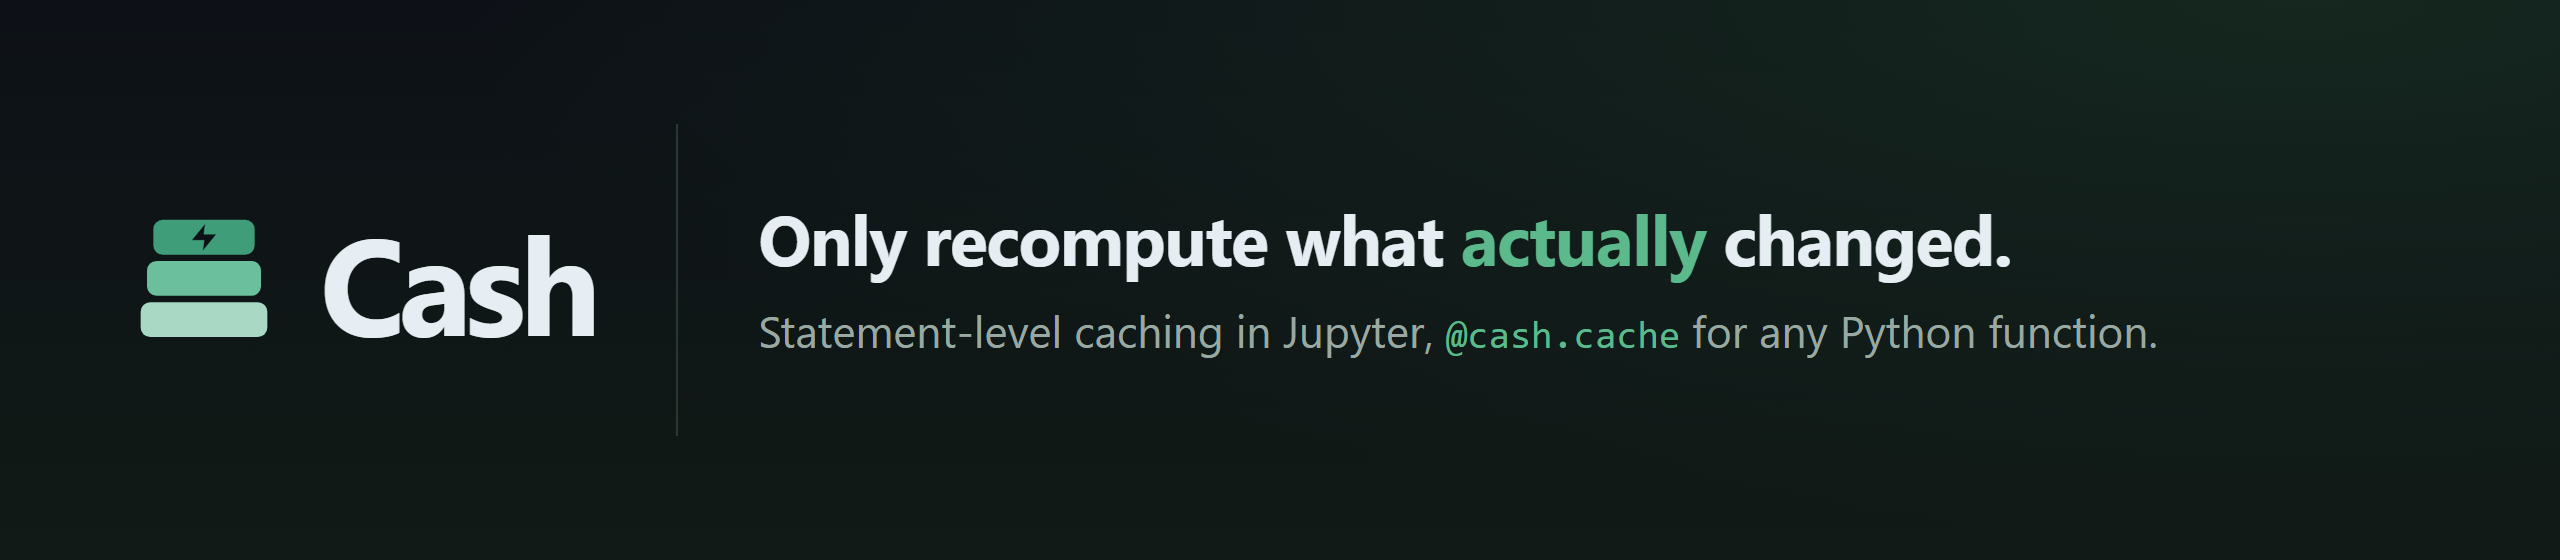
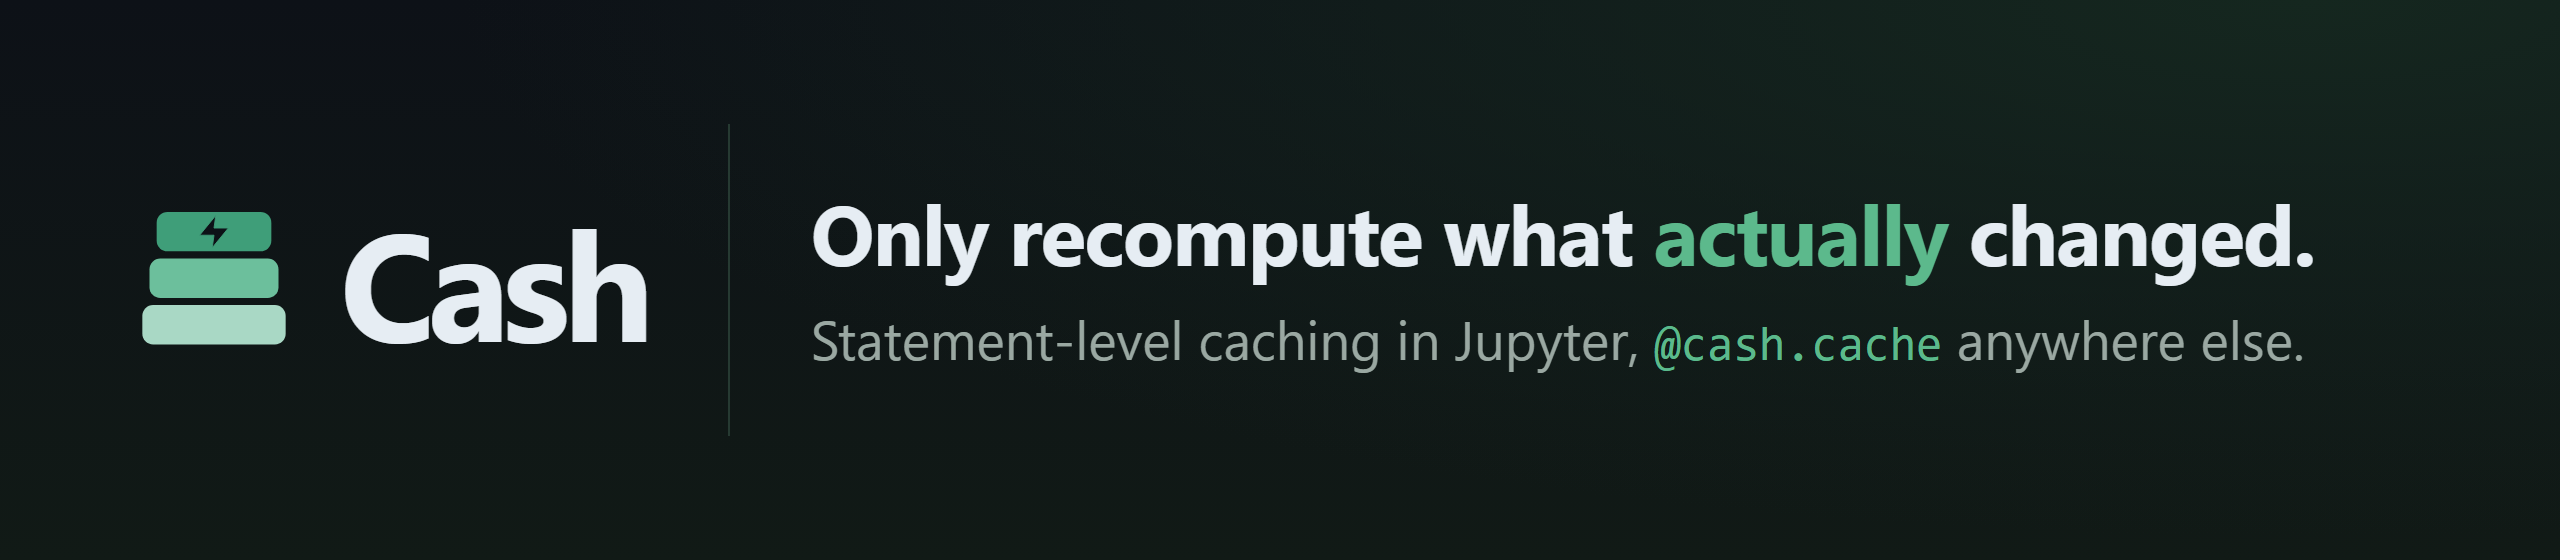
fix(brand): render the social card at the size GitHub actually accepts
The card was 2560x1280 at 822KB -- inside GitHub's stated 1MB cap and the
right 2:1 ratio, but the upload silently would not take. The Settings
preview stayed blank with nothing anywhere reporting a failure, which is
the expensive kind of bug: the file looks correct locally, so the natural
conclusion is that the image is wrong rather than the upload.

Render it at 1x instead, matching the 1280x640 GitHub documents. 257KB.
Scale is now per-asset rather than global -- the README header keeps 2x,
where being oversized is a feature because GitHub displays it well below
its natural width.

A test now pins both the card's dimensions and its file size. A silent
upload failure is worth a guard precisely because nothing reports it.

Also: larger type in the header, which was small once GitHub scales 1280
down to its column. The sub-line is shortened rather than the type shrunk
back, since legibility was the point -- and the H1 under the header is
gone, having said the product's name and claim a second time directly
below an image that already carried both.

Changed region(s): [[0.0625, 0.3643, 0.9062, 0.6679], [0.2812, 0.3643, 0.9062, 0.5161]]

diff --git a/docs/_brand/readme-header.html b/docs/_brand/readme-header.html
@@ -67,7 +67,7 @@
 
   .lockup { display: flex; align-items: center; gap: 20px; flex: none; }
   .lockup .name {
-    font-size: 68px; font-weight: 700; letter-spacing: -0.045em;
+    font-size: 76px; font-weight: 700; letter-spacing: -0.045em;
     color: var(--ink); line-height: 1;
   }
 
@@ -75,18 +75,18 @@
 
   .say { display: flex; flex-direction: column; gap: 10px; }
   .headline {
-    font-size: 35px; line-height: 1.2; font-weight: 700;
+    font-size: 42px; line-height: 1.2; font-weight: 700;
     letter-spacing: -0.02em; color: var(--ink);
   }
   .headline em { font-style: normal; color: var(--accent); }
-  .sub { font-size: 22px; line-height: 1.4; color: var(--ink-3); }
+  .sub { font-size: 27px; line-height: 1.4; color: var(--ink-3); }
   .sub code {
     font-family: var(--mono); font-size: 0.88em; color: var(--accent);
   }
 </style>
 
 <div class="lockup">
-  <svg width="76" height="76" viewBox="0 0 96 96" role="img" aria-label="Cash">
+  <svg width="86" height="86" viewBox="0 0 96 96" role="img" aria-label="Cash">
     <rect x="8" y="62" width="80" height="22" rx="6" fill="var(--bar-low)"/>
     <rect x="12" y="36" width="72" height="22" rx="6" fill="var(--bar-mid)"/>
     <rect x="16" y="10" width="64" height="22" rx="6" fill="var(--bar-top)"/>
@@ -100,5 +100,5 @@
 
 <div class="say">
   <div class="headline">Only recompute what <em>actually</em> changed.</div>
-  <div class="sub">Statement-level caching in Jupyter, <code>@cash.cache</code> for any Python function.</div>
+  <div class="sub">Statement-level caching in Jupyter, <code>@cash.cache</code> anywhere else.</div>
 </div>

diff --git a/scripts/build_brand_assets.py b/scripts/build_brand_assets.py
@@ -43,15 +43,18 @@ import sys
 REPO_ROOT = pathlib.Path(__file__).resolve().parent.parent
 BRAND_DIR = REPO_ROOT / "docs" / "_brand"
 
-# 2x everywhere: crisp where an asset is shown large (Slack unfurls, the
-# Settings preview, a HiDPI README) and downsampling cleanly where it is not.
-SCALE = 2
-
-#: (source stem, output stem, width, height, colour scheme)
+#: (source stem, output stem, width, height, scale, colour scheme)
+#:
+#: Scale is per-asset, not global. The README header renders at 2x so it stays
+#: crisp on a HiDPI screen, where GitHub displays it well below its natural
+#: width. The social card renders at 1x: GitHub documents 1280x640 as the size
+#: for best display and caps the upload at 1MB, and a 2x card came out
+#: 2560x1280 at 822KB -- inside the stated limit, but it would not take. Match
+#: the documented size exactly rather than argue with the uploader.
 ASSETS = [
-    ("social-card",   "social-card",         1280, 640, "light"),
-    ("readme-header", "readme-header-light", 1280, 280, "light"),
-    ("readme-header", "readme-header-dark",  1280, 280, "dark"),
+    ("social-card",   "social-card",         1280, 640, 1, "light"),
+    ("readme-header", "readme-header-light", 1280, 280, 2, "light"),
+    ("readme-header", "readme-header-dark",  1280, 280, 2, "dark"),
 ]
 
 
@@ -84,14 +87,14 @@ def render() -> int:
     with sync_playwright() as pw:
         browser = pw.chromium.launch()
         try:
-            for src, out_stem, width, height, scheme in ASSETS:
+            for src, out_stem, width, height, scale, scheme in ASSETS:
                 html = BRAND_DIR / f"{src}.html"
                 if not html.exists():
                     print(f"missing {html}", file=sys.stderr)
                     return 1
                 page = browser.new_page(
                     viewport={"width": width, "height": height},
-                    device_scale_factor=SCALE,
+                    device_scale_factor=scale,
                     color_scheme=scheme,
                 )
                 page.goto(html.as_uri())
@@ -106,7 +109,8 @@ def render() -> int:
                 (BRAND_DIR / f"{out_stem}.png.stamp").write_text(
                     stamp(html), encoding="utf-8")
                 print(f"wrote {out.name} ({out.stat().st_size:,} bytes) "
-                      f"{width}x{height}@{SCALE}x {scheme}")
+                      f"{width * scale}x{height * scale} "
+                      f"({width}x{height}@{scale}x, {scheme})")
         finally:
             browser.close()
     return 0

diff --git a/tests/test_docs/test_brand_assets_fresh.py b/tests/test_docs/test_brand_assets_fresh.py
@@ -97,17 +97,37 @@ def test_every_committed_png_is_one_the_builder_owns():
 def test_declared_sizes_match_the_committed_files():
     """The dimensions that matter are the ones in the file, not in the script.
 
-    GitHub renders the social preview at 2:1 and crops anything else; the
-    README header is wide-and-short by design. Reading the real PNG header
-    catches a viewport change that was never re-rendered.
+    Reading the real PNG header catches a viewport or scale change that was
+    never re-rendered -- which the stamp cannot, since the stamp only covers
+    the HTML.
     """
-    for src, out_stem, width, height, _scheme in _assets():
+    for _src, out_stem, width, height, scale, _scheme in _assets():
         actual = _png_size(BRAND_DIR / f"{out_stem}.png")
-        expected = (width * 2, height * 2)      # SCALE = 2
+        expected = (width * scale, height * scale)
         assert actual == expected, (
             f"{out_stem}.png is {actual[0]}x{actual[1]}, expected "
-            f"{expected[0]}x{expected[1]} (declared {width}x{height} at 2x)"
+            f"{expected[0]}x{expected[1]} (declared {width}x{height} at {scale}x)"
         )
+
+
+def test_the_social_card_stays_inside_githubs_upload_limits():
+    """GitHub caps the social preview at 1MB and documents 1280x640.
+
+    A 2x card came out 2560x1280 at 822KB -- inside the stated size limit, and
+    the upload still would not take, leaving the Settings preview blank with no
+    error worth noticing. The card is rendered at 1x for that reason, and this
+    pins it: a silent upload failure is expensive to diagnose precisely because
+    nothing anywhere reports it.
+    """
+    png = BRAND_DIR / "social-card.png"
+    size_kb = png.stat().st_size / 1024
+    assert size_kb < 1024, f"social-card.png is {size_kb:.0f}KB; GitHub caps at 1MB"
+
+    width, height = _png_size(png)
+    assert (width, height) == (1280, 640), (
+        f"social-card.png is {width}x{height}; GitHub documents 1280x640 for "
+        f"the social preview, and deviating from it is what broke the upload."
+    )
 
 
 def test_the_social_card_keeps_githubs_two_to_one_ratio():

diff --git a/README.md b/README.md
@@ -6,11 +6,9 @@
 <picture>
   <source media="(prefers-color-scheme: dark)"
           srcset="https://raw.githubusercontent.com/galgtonold/cash/main/docs/_brand/readme-header-dark.png">
-  <img alt="Cash — only recompute what actually changed. Statement-level caching in Jupyter, @cash.cache for any Python function."
+  <img alt="Cash — only recompute what actually changed. Statement-level caching in Jupyter, @cash.cache anywhere else."
        src="https://raw.githubusercontent.com/galgtonold/cash/main/docs/_brand/readme-header-light.png">
 </picture>
-
-# Cash — stop re-running work that hasn't changed
 
 [![PyPI version](https://img.shields.io/pypi/v/cash-lib.svg)](https://pypi.org/project/cash-lib/)
 [![Downloads](https://img.shields.io/pepy/dt/cash-lib.svg)](https://pepy.tech/project/cash-lib)
